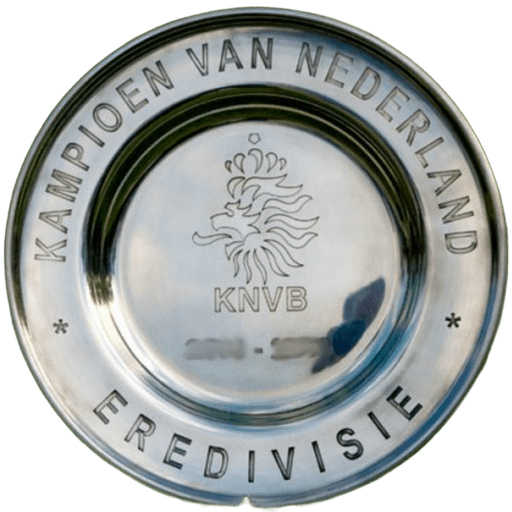
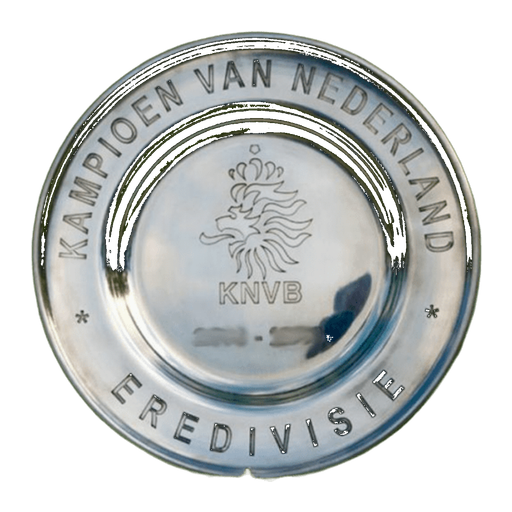
fix: escudos PSV/Marsella y trofeos PNG en perfil leonelchura
PSV usa id 246, OM id 219, reprocesa liga chile y eredivisie transparentes, script fix-leonel-crests.

diff --git a/scripts/fix-leonel-crests.ts b/scripts/fix-leonel-crests.ts
@@ -1,0 +1,70 @@
+import { config } from "dotenv";
+config({ path: ".env" });
+config({ path: ".env.local", override: true });
+
+import { PrismaClient } from "@prisma/client";
+import { CLUB_NAME_TO_TEAM_ID } from "../src/lib/fc-data/club-ids";
+
+const prisma = new PrismaClient();
+
+const crest = (id: number) => `/api/crest/${id}`;
+
+const OVERRIDES: Record<string, number> = {
+  ...CLUB_NAME_TO_TEAM_ID,
+  PSV: 246,
+  "Olympique de Marseille": 219,
+};
+
+const TROPHY_FIX: Array<{ titleContains: string; imageUrl: string }> = [
+  { titleContains: "chile", imageUrl: "/trophies/liga-chile.png" },
+  { titleContains: "colo", imageUrl: "/trophies/liga-chile.png" },
+  { titleContains: "conference", imageUrl: "/trophies/conference-league.png" },
+  { titleContains: "eurocopa", imageUrl: "/trophies/eurocopa.png" },
+  { titleContains: "africana", imageUrl: "/trophies/copa-africana.png" },
+  { titleContains: "europa league", imageUrl: "/trophies/europa-league.png" },
+];
+
+async function main() {
+  const user = await prisma.user.findFirst({
+    where: { nickname: "leonelchura" },
+    select: { id: true },
+  });
+  if (!user) throw new Error("leonelchura no encontrado");
+
+  const trophies = await prisma.trophy.findMany({ where: { userId: user.id } });
+
+  for (const t of trophies) {
+    const club = t.clubName ?? "";
+    const teamId = OVERRIDES[club];
+    let imageUrl = t.imageUrl;
+    for (const fix of TROPHY_FIX) {
+      if (t.title.toLowerCase().includes(fix.titleContains)) {
+        imageUrl = fix.imageUrl;
+        break;
+      }
+    }
+
+    const data: { clubCrestUrl?: string; imageUrl?: string | null } = {};
+    if (teamId) data.clubCrestUrl = crest(teamId);
+    if (imageUrl && imageUrl !== t.imageUrl) data.imageUrl = imageUrl;
+
+    if (Object.keys(data).length) {
+      await prisma.trophy.update({ where: { id: t.id }, data });
+      console.log("updated", t.title, club, data);
+    }
+  }
+
+  for (const [clubName, id] of Object.entries(OVERRIDES)) {
+    await prisma.trophy.updateMany({
+      where: { clubName },
+      data: { clubCrestUrl: crest(id) },
+    });
+  }
+}
+
+main()
+  .catch((e) => {
+    console.error(e);
+    process.exit(1);
+  })
+  .finally(() => prisma.$disconnect());

diff --git a/scripts/seed-profiles-titles.ts b/scripts/seed-profiles-titles.ts
@@ -206,14 +206,14 @@ const LEONEL: TitleSeed[] = [
     title: "Campeón · Ligue 1",
     imageUrl: "/trophies/ligue-1.png",
     clubName: "Olympique de Marseille",
-    clubCrestUrl: crest(179),
+    clubCrestUrl: crest(219),
     wonAt: "2026-03-10",
   },
   {
     title: "Campeón · UEFA Conference League",
     imageUrl: "/trophies/conference-league.png",
     clubName: "Olympique de Marseille",
-    clubCrestUrl: crest(179),
+    clubCrestUrl: crest(219),
     wonAt: "2026-04-02",
   },
 ];

diff --git a/scripts/fix-trophy-assets.ts b/scripts/fix-trophy-assets.ts
@@ -24,7 +24,8 @@ const CLUB_CREST: Record<string, string> = {
   "FC Bayern München": crest(21),
   Palmeiras: crest(383),
   Inter: crest(44),
-  "Olympique de Marseille": crest(181),
+  PSV: crest(246),
+  "Olympique de Marseille": crest(219),
   "Sporting CP": crest(237),
   "Colo-Colo": crest(110980),
   Rangers: crest(86),

diff --git a/src/lib/fc-data/club-ids.ts b/src/lib/fc-data/club-ids.ts
@@ -94,7 +94,7 @@ export const CLUB_NAME_TO_TEAM_ID: Record<string, number> = {
   "Boca Juniors": 1877,
   "Colo-Colo": 110980,
   Rangers: 86,
-  "Olympique de Marseille": 181,
+  "Olympique de Marseille": 219,
   Universitario: 111017,
   "LDU Quito": 110740,
   "Inter Miami": 112893,

diff --git a/scripts/seed-leonel-titles.ts b/scripts/seed-leonel-titles.ts
@@ -60,7 +60,7 @@ const TITLES: TitleSeed[] = [
     title: "Campeón · Eredivisie",
     imageUrl: "/trophies/eredivisie.png",
     clubName: "PSV",
-    clubCrestUrl: crest(247),
+    clubCrestUrl: crest(246),
     wonAt: "2024-06-15",
   },
   {
